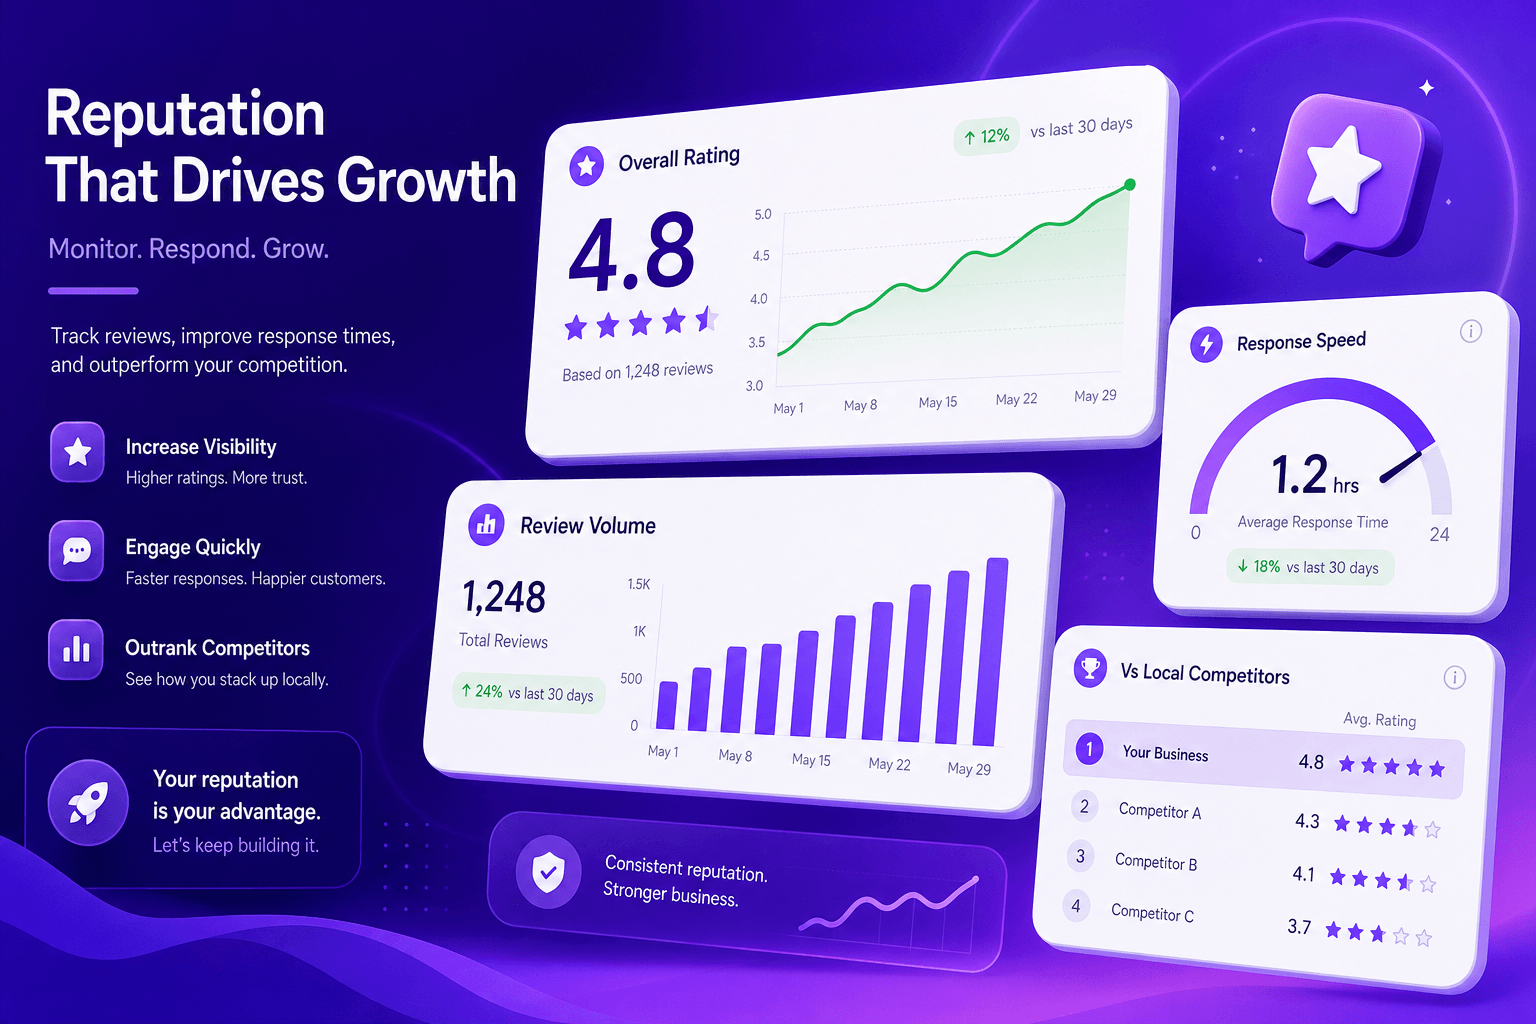
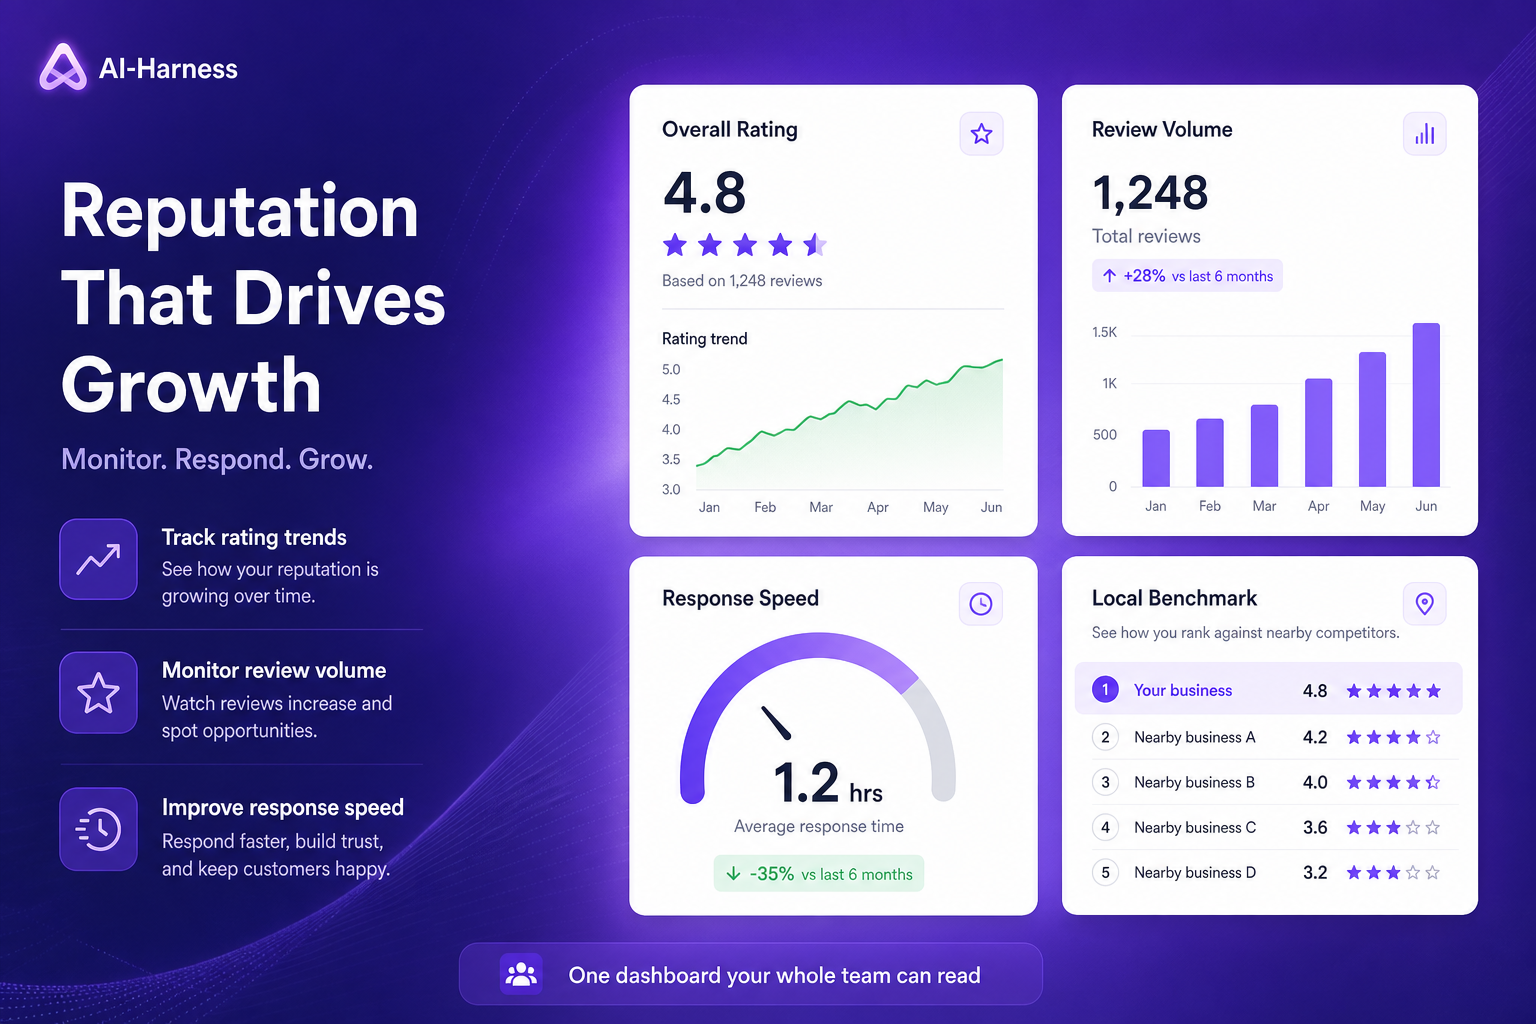
Refine contact form style and fix image framing behavior.
Align the contact form to the signup visual style, keep the home mission accordion expansion while preventing image stretching, and adjust visibility feature image framing/replacements so key content is no longer clipped.

diff --git a/src/pages/Contact.tsx b/src/pages/Contact.tsx
@@ -29,39 +29,39 @@ export default function Contact() {
         title="Contact Us | Talk to the AI-Harness team"
         description="Get in touch with sales, support, partners, or security. The AI-Harness team responds within one business day."
       />
-      <section className="relative overflow-hidden pb-10 pt-20">
+      <section className="relative overflow-hidden pb-4 pt-10 sm:pb-6 sm:pt-12">
         <div aria-hidden className="pointer-events-none absolute inset-0 bg-spotlight" />
         <Container className="relative">
           <div className="mx-auto max-w-3xl text-center">
             <Eyebrow>Contact Us</Eyebrow>
-            <h1 className="mt-6 text-[36px] font-semibold leading-[1.04] tracking-[-0.02em] text-ink-900 sm:text-[56px]">
+            <h1 className="mt-3 text-[30px] font-semibold leading-[1.04] tracking-[-0.02em] text-ink-900 sm:text-[40px]">
               We'd love to <span className="text-gradient">hear from you.</span>
             </h1>
-            <p className="mt-5 text-lg text-ink-600">
+            <p className="mt-2 text-[15px] text-ink-600 sm:text-base">
               Whether you're evaluating the platform or building a case inside your organization, our team is here.
             </p>
           </div>
         </Container>
       </section>
 
-      <section className="py-16">
+      <section className="py-7 sm:py-8">
         <Container>
-          <div className="grid gap-10 lg:grid-cols-[1fr_1.3fr]">
-            <div className="space-y-5">
+          <div className="grid gap-4 lg:grid-cols-[0.95fr_1.25fr]">
+            <div className="space-y-2.5">
               {[
                 { icon: <MessageSquare className="h-5 w-5" />, title: "Sales", sub: "sales@ai-harness.com", desc: "Deals, pilots, and enterprise rollouts." }, { icon: <Mail className="h-5 w-5" />, title: "Support", sub: "support@ai-harness.com", desc: "Customer support and product help." }, { icon: <PhoneCall className="h-5 w-5" />, title: "Press & partners", sub: "partners@ai-harness.com", desc: "Media and partnership inquiries." }, { icon: <Building2 className="h-5 w-5" />, title: "Security", sub: "security@ai-harness.com", desc: "Responsible disclosure and security team." }, ].map((c) => (
-                <div key={c.title} className="flex items-start gap-4 rounded-2xl border border-ink-200 bg-white p-5">
+                <div key={c.title} className="flex items-start gap-3 rounded-2xl border border-ink-200 bg-white p-3.5">
                   <span className="grid h-11 w-11 shrink-0 place-items-center rounded-xl bg-brand-50 text-brand-700 ring-1 ring-inset ring-brand-200/60">
                     {c.icon}
                   </span>
                   <div>
-                    <p className="font-semibold text-ink-900">{c.title}</p>
+                    <p className="text-[15px] font-semibold text-ink-900">{c.title}</p>
                     <p className="text-[14px] text-brand-700">{c.sub}</p>
-                    <p className="mt-1 text-[13.5px] text-ink-600">{c.desc}</p>
+                    <p className="mt-0.5 text-[13px] text-ink-600">{c.desc}</p>
                   </div>
                 </div>
               ))}
-              <div className="flex items-start gap-4 rounded-2xl border border-ink-200 bg-white p-5">
+              <div className="hidden items-start gap-4 rounded-2xl border border-ink-200 bg-white p-4 lg:flex">
                 <span className="grid h-11 w-11 shrink-0 place-items-center rounded-xl bg-brand-50 text-brand-700 ring-1 ring-inset ring-brand-200/60">
                   <MapPin className="h-5 w-5" />
                 </span>
@@ -70,7 +70,7 @@ export default function Contact() {
                   <p className="mt-1 text-[13.5px] text-ink-600">San Francisco · Singapore · India</p>
                 </div>
               </div>
-              <div className="rounded-2xl border border-ink-200 bg-white p-5">
+              <div className="hidden rounded-2xl border border-ink-200 bg-white p-4 lg:block">
                 <div className="flex items-start gap-4">
                   <span className="grid h-11 w-11 shrink-0 place-items-center rounded-xl bg-brand-50 text-brand-700 ring-1 ring-inset ring-brand-200/60">
                     <Share2 className="h-5 w-5" />
@@ -82,7 +82,7 @@ export default function Contact() {
                     </p>
                   </div>
                 </div>
-                <div className="mt-4 grid grid-cols-2 gap-2.5">
+                <div className="mt-3 grid grid-cols-2 gap-2">
                   {socials.map(({ label, href, Icon }) => (
                     <a
                       key={label}
@@ -102,9 +102,9 @@ export default function Contact() {
               </div>
             </div>
 
-            <div className="rounded-3xl border border-ink-200 bg-white p-8 shadow-soft">
+            <div className="rounded-[28px] border border-ink-200 bg-white p-4.5 shadow-soft sm:p-5">
               {sent ? (
-                <div className="flex flex-col items-center justify-center py-16 text-center">
+                <div className="flex flex-col items-center justify-center py-14 text-center">
                   <div className="grid h-14 w-14 place-items-center rounded-full bg-brand-50 text-brand-700">
                     <ArrowRight className="h-6 w-6" />
                   </div>
@@ -118,32 +118,42 @@ export default function Contact() {
                   </div>
                 </div>
               ) : (
+                <>
+                <h2 className="text-2xl font-semibold leading-tight tracking-[-0.01em] text-ink-900">
+                  Send us a message
+                </h2>
+                <p className="mt-2 text-[15px] text-ink-600">Usually replies within one business day.</p>
                 <form
                   onSubmit={(e) => {
                     e.preventDefault();
                     setSent(true);
                   }}
-                  className="space-y-5"
+                  className="mt-6 space-y-4"
                 >
-                  <div className="grid gap-5 sm:grid-cols-2">
-                    <Field label="First name" name="firstName" required />
-                    <Field label="Last name" name="lastName" required />
-                    <Field label="Work email" name="email" type="email" required />
+                  <div className="grid gap-4">
+                    <Field label="Full name" name="fullName" required />
+                    <Field
+                      label="Work email"
+                      name="email"
+                      type="email"
+                      required
+                      hint="Use your corporate email. Gmail, Outlook, and disposable addresses aren't accepted."
+                    />
                     <Field label="Company" name="company" required />
                     <Field label="Job title" name="title" />
-                    <Field label="Team size" name="size" as="select" options={["1–10", "11–50", "51–200", "201–1,000", "1,000+"]} />
                   </div>
-                  <Field label="How can we help?" name="message" as="textarea" rows={5} />
-                  <div className="flex flex-col gap-3 pt-2 sm:flex-row sm:items-center sm:justify-between sm:gap-4">
+                  <Field label="How can we help?" name="message" as="textarea" rows={4} />
+                  <div className="flex flex-col gap-3 pt-1">
                     <p className="text-xs text-ink-500">
                       By submitting, you agree to our Privacy Policy.
                     </p>
-                    <Button className="w-full sm:w-auto">
+                    <Button className="w-full">
                       Send message
                       <ArrowRight className="h-4 w-4" />
                     </Button>
                   </div>
                 </form>
+                </>
               )}
             </div>
           </div>
@@ -154,7 +164,7 @@ export default function Contact() {
 }
 
 function Field({
-  label, name, type = "text", required, as = "input", rows = 3, options = [],
+  label, name, type = "text", required, as = "input", rows = 3, options = [], hint,
 }: {
   label: string;
   name: string;
@@ -163,11 +173,12 @@ function Field({
   as?: "input" | "textarea" | "select";
   rows?: number;
   options?: string[];
+  hint?: string;
 }) {
   const className =
-    "mt-2 w-full rounded-xl border border-ink-200 bg-white px-3.5 py-2.5 text-[14.5px] text-ink-900 outline-none placeholder:text-ink-400 focus:border-brand-500 focus:ring-2 focus:ring-brand-100";
+    "mt-1.5 w-full rounded-2xl border border-ink-200 bg-white px-4 py-3 text-[16px] text-ink-900 outline-none placeholder:text-ink-400 focus:border-brand-500 focus:ring-2 focus:ring-brand-100";
   return (
-    <label className="block text-sm font-medium text-ink-800">
+    <label className="block text-[14px] font-medium text-ink-800">
       {label} {required && <span className="text-brand-600">*</span>}
       {as === "input" && <input type={type} name={name} required={required} className={className} />}
       {as === "textarea" && <textarea name={name} rows={rows} className={className} />}
@@ -179,6 +190,7 @@ function Field({
           ))}
         </select>
       )}
+      {hint ? <span className="mt-1.5 block text-[12.5px] font-normal text-ink-500">{hint}</span> : null}
     </label>
   );
 }

diff --git a/src/pages/home/HomePage.tsx b/src/pages/home/HomePage.tsx
@@ -536,27 +536,31 @@ function Agents() {
           role="tabpanel"
           className="mt-12 grid overflow-hidden rounded-[1.75rem] bg-ink-950 lg:mt-16 lg:grid-cols-[minmax(0,1.05fr)_minmax(0,0.95fr)]"
         >
-          <div className="relative min-h-[280px] bg-ink-900 sm:min-h-[360px] lg:min-h-[560px]">
-            <img
-              key={activeMission.image}
-              src={activeMission.image}
-              alt={activeMission.imageAlt}
-              width={1200}
-              height={800}
-              loading="eager"
-              decoding="async"
-              fetchPriority="high"
-              className="absolute inset-0 h-full w-full object-cover"
-            />
-            <div
-              aria-hidden
-              className="pointer-events-none absolute inset-0 z-[2] bg-gradient-to-t from-ink-950 via-ink-950/40 to-transparent lg:bg-gradient-to-r lg:from-transparent lg:via-ink-950/20 lg:to-ink-950"
-            />
-            <div className="absolute inset-x-0 bottom-0 z-10 p-6 sm:p-8 lg:hidden">
-              <p className="font-serif text-2xl text-white">{agentGroupTitle(group.title)}</p>
-              <p className="mt-2 text-sm leading-relaxed text-white/75">{activeMission.blurb}</p>
+          <div className="grid lg:grid-cols-[minmax(0,1.05fr)_minmax(0,0.95fr)] lg:items-start">
+            {/* Photo stays fixed — self-start stops the grid row from stretching a blank band under the image */}
+            <div className="relative self-start lg:sticky lg:top-28">
+              <div className="relative h-[16rem] w-full overflow-hidden sm:h-[20rem] lg:h-[34rem]">
+                <img
+                  key={activeMission.image}
+                  src={activeMission.image}
+                  alt={activeMission.imageAlt}
+                  width={1200}
+                  height={800}
+                  loading="eager"
+                  decoding="async"
+                  fetchPriority="high"
+                  className="absolute inset-0 h-full w-full object-cover object-center"
+                />
+                <div
+                  aria-hidden
+                  className="pointer-events-none absolute inset-0 z-[2] bg-gradient-to-t from-ink-950 via-ink-950/40 to-transparent lg:bg-gradient-to-r lg:from-transparent lg:via-ink-950/25 lg:to-ink-950"
+                />
+                <div className="absolute inset-x-0 bottom-0 z-10 p-6 sm:p-8 lg:hidden">
+                  <p className="font-serif text-2xl text-white">{agentGroupTitle(group.title)}</p>
+                  <p className="mt-2 text-sm leading-relaxed text-white/75">{activeMission.blurb}</p>
+                </div>
+              </div>
             </div>
-          </div>
 
           <div className="relative flex flex-col justify-between p-6 sm:p-8 lg:p-10">
             <div className="hidden lg:block">
@@ -596,52 +600,57 @@ function Agents() {
                                 <span className="h-1.5 w-1.5 animate-pulse rounded-full bg-success" />
                                 Live
                               </span>
-                            ) : (
-                              <span className="text-[11px] font-semibold tracking-wide text-white/35 uppercase">
-                                Soon
-                              </span>
-                            )}
-                          </div>
-                          {open ? (
-                            <div className="mt-3">
-                              <p className="text-[15px] leading-relaxed text-white/70">
-                                {agent.outcome}
-                              </p>
                               {agent.live ? (
-                                <Link
-                                  to={agent.seeTo}
-                                  onClick={(e) => e.stopPropagation()}
-                                  className="mt-4 inline-flex items-center gap-2 text-sm font-semibold text-brand-200 hover:text-white"
-                                >
-                                  Open this agent
-                                  <ArrowRight className="h-3.5 w-3.5" />
-                                </Link>
-                              ) : null}
+                                <span className="inline-flex items-center gap-1.5 rounded-full bg-success/15 px-2 py-0.5 text-[11px] font-semibold tracking-wide text-success-300 uppercase">
+                                  <span className="h-1.5 w-1.5 animate-pulse rounded-full bg-success" />
+                                  Live
+                                </span>
+                              ) : (
+                                <span className="text-[11px] font-semibold tracking-wide text-white/35 uppercase">
+                                  Soon
+                                </span>
+                              )}
                             </div>
-                          ) : null}
+                            {open ? (
+                              <div className="mt-3">
+                                <p className="text-[15px] leading-relaxed text-white/70">
+                                  {agent.outcome}
+                                </p>
+                                {agent.live ? (
+                                  <Link
+                                    to={agent.seeTo}
+                                    onClick={(e) => e.stopPropagation()}
+                                    className="mt-4 inline-flex items-center gap-2 text-sm font-semibold text-brand-200 hover:text-white"
+                                  >
+                                    Open this agent
+                                    <ArrowRight className="h-3.5 w-3.5" />
+                                  </Link>
+                                ) : null}
+                              </div>
+                            ) : null}
+                          </div>
+                          <span
+                            className={cn(
+                              "mt-1 grid h-7 w-7 shrink-0 place-items-center rounded-full border border-white/15 text-white/70 transition-transform duration-200",
+                              open && "rotate-90 border-brand-300/40 text-brand-200",
+                            )}
+                          >
+                            <ArrowRight className="h-3.5 w-3.5" />
+                          </span>
                         </div>
-                        <span
-                          className={cn(
-                            "mt-1 grid h-7 w-7 shrink-0 place-items-center rounded-full border border-white/15 text-white/70 transition-transform duration-200",
-                            open && "rotate-90 border-brand-300/40 text-brand-200",
-                          )}
-                        >
-                          <ArrowRight className="h-3.5 w-3.5" />
-                        </span>
-                      </div>
-                    </button>
-                  </li>
-                );
-              })}
-            </ul>
-
-            <div className="mt-8 flex flex-wrap gap-3 border-t border-white/10 pt-6">
-              <Button to="/platform" variant="white">
-                See all products
-              </Button>
-              <Button to="/signup" className="border border-white/20 bg-transparent text-white hover:bg-white/10">
-                Start free
-              </Button>
+                      </button>
+                    </li>
+                  );
+                })}
+              </ul>
+              <div className="mt-8 flex flex-wrap gap-3 border-t border-white/10 pt-6">
+                <Button to="/platform" variant="white">
+                  See all products
+                </Button>
+                <Button to="/signup" className="border border-white/20 bg-transparent text-white hover:bg-white/10">
+                  Start free
+                </Button>
+              </div>
             </div>
           </div>
         </div>

diff --git a/src/components/marketing-automation/CapsuleFeatureImage.tsx b/src/components/marketing-automation/CapsuleFeatureImage.tsx
@@ -4,10 +4,12 @@ type CapsuleFeatureImageProps = {
   src: string;
   alt: string;
   pillSide: "left" | "right";
+  /** Extra classes on the img, e.g. translate-x-4 to reveal left-edge artwork */
+  imageClassName?: string;
 };
 
 /** One-sided capsule (pill) frame for agent feature images */
-export function CapsuleFeatureImage({ src, alt, pillSide }: CapsuleFeatureImageProps) {
+export function CapsuleFeatureImage({ src, alt, pillSide, imageClassName }: CapsuleFeatureImageProps) {
   const plateRound =
     pillSide === "right"
       ? "rounded-l-[1.5rem] rounded-r-[999px] sm:rounded-l-[1.75rem]"
@@ -40,11 +42,14 @@ export function CapsuleFeatureImage({ src, alt, pillSide }: CapsuleFeatureImageP
           boxShadow: "0 18px 40px -24px rgba(124,58,237,0.18)",
         }}
       >
-        <div className={cn("overflow-hidden bg-white", innerRound)}>
+        <div className={cn("overflow-hidden bg-white p-1 sm:p-1.5", innerRound)}>
           <img
             src={src}
             alt={alt}
-            className="aspect-[4/3] h-auto min-h-[15rem] w-full object-cover object-center sm:min-h-[17rem] lg:min-h-[20rem]"
+            className={cn(
+              "block h-auto w-full object-contain",
+              imageClassName ?? "object-center",
+            )}
             loading="lazy"
             decoding="async"
           />

diff --git a/src/pages/visibility-listing/SearchOptimization.tsx b/src/pages/visibility-listing/SearchOptimization.tsx
@@ -408,6 +408,13 @@ function FeatureVisual({
       src={feature.imageSrc}
       alt={feature.imageAlt}
       pillSide={pillSide}
+      imageClassName={
+        feature.id === "keywords"
+          ? "translate-x-3 object-left sm:translate-x-5"
+          : feature.id === "competitors"
+            ? "translate-x-2 object-right sm:translate-x-4"
+            : undefined
+      }
     />
   );
 }
